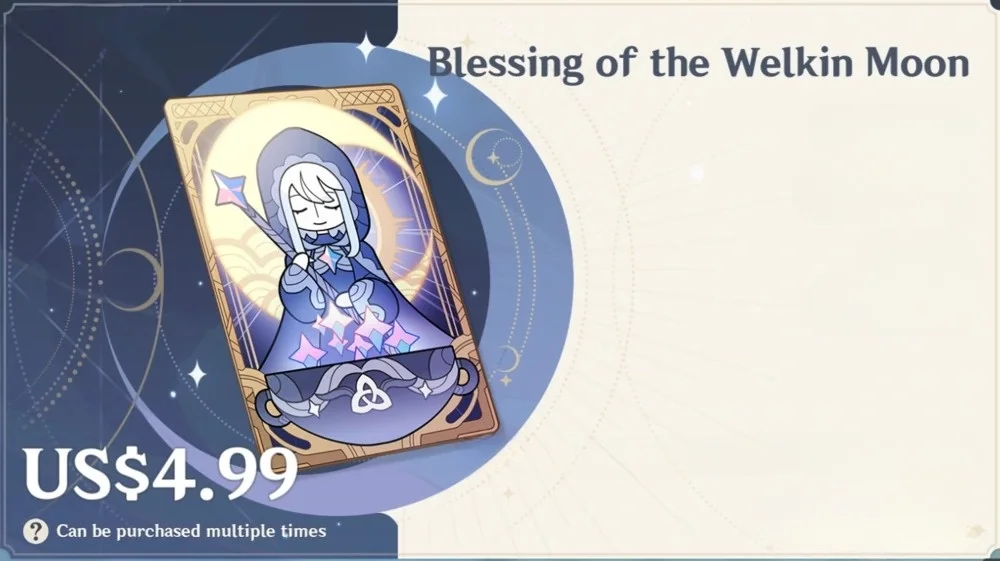
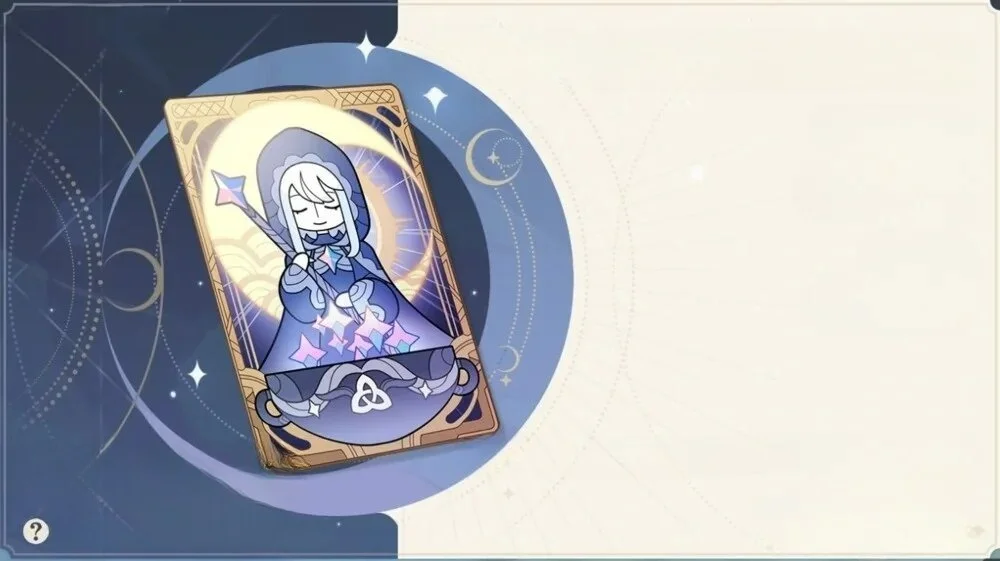
More Translatable Words

Changed region(s): [[0.403, 0.0606, 0.992, 0.1515], [0.0, 0.7879, 0.31, 0.9091], [0.031, 0.9394, 0.341, 0.9697]]

diff --git a/src/lib/components/shop/Recomended.svelte b/src/lib/components/shop/Recomended.svelte
@@ -41,6 +41,10 @@
 	let dayRemaining = remaining || 0;
 	let showWelkinPopup = false;
 
+	const welkinPrice = $t(`price.format`, {
+		values: { symbol: $t('price.symbol'), nominal: $t('price.welkin') }
+	});
+
 	const buyWelkin = () => {
 		showWelkinPopup = false;
 		genesis.update((n) => {
@@ -71,7 +75,7 @@
 	{/if}
 
 	<TopNavItem on:click={handleRecomendClick} name="welkin" active={activeItem === 'welkin'}>
-		{$t('shop.welkinHeading')}
+		{$t('shop.recomended.welkin')}
 	</TopNavItem>
 </TopNavParent>
 
@@ -125,9 +129,10 @@
 				</div>
 			</div>
 		{:else}
-			<div class="card" in:fade={{ duration: 400 }}>
+			<div class="card welkin" in:fade={{ duration: 400 }}>
 				<img src="/images/utility/welkin-card.webp" alt="Welkin of the Blessing Moon" />
 
+				<h1>{$t('shop.recomended.welkin')}</h1>
 				{#if dayRemaining > 0}
 					<div class="remaining">
 						{@html $t('shop.recomended.dayRemaining', {
@@ -136,6 +141,10 @@
 						<span>({$t('shop.recomended.alreadyClaimed')})</span>
 					</div>
 				{/if}
+
+				<h2 class="price">{welkinPrice}</h2>
+				<div class="note">{$t('shop.welkinNote')}</div>
+
 				<div class="frame">
 					<div class="parent-amount">
 						<span>{$t('shop.recomended.instantlyGet')}</span>
@@ -205,6 +214,30 @@
 		border-radius: 1rem;
 		overflow: hidden;
 		font-size: calc(0.035 * var(--content-width));
+	}
+
+	.welkin h1 {
+		position: absolute;
+		right: 2%;
+		top: 7.5%;
+		color: #4c505e;
+		font-size: calc(0.065 * var(--content-width));
+	}
+
+	.welkin h2 {
+		position: absolute;
+		left: 2%;
+		bottom: 8%;
+		font-size: calc(0.115 * var(--content-width));
+		color: #fff;
+	}
+
+	.note {
+		position: absolute;
+		left: 6%;
+		bottom: 3.7%;
+		color: #fff;
+		font-size: calc(0.026 * var(--content-width));
 	}
 
 	.remaining {
